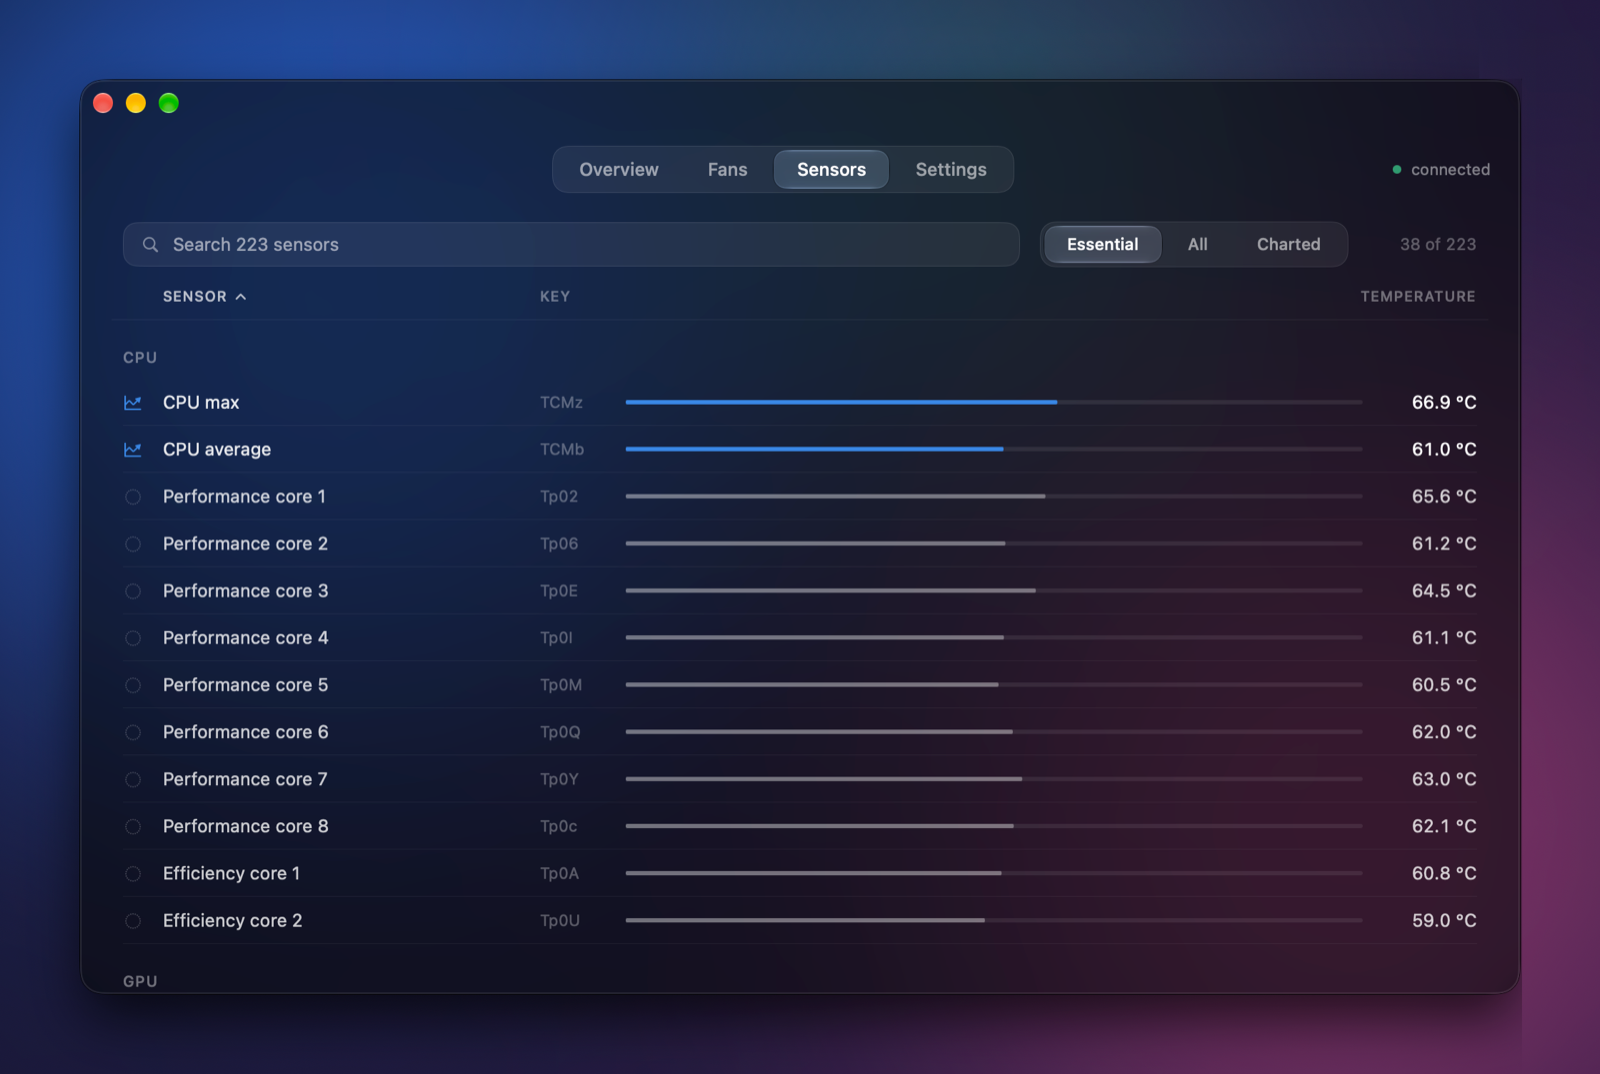
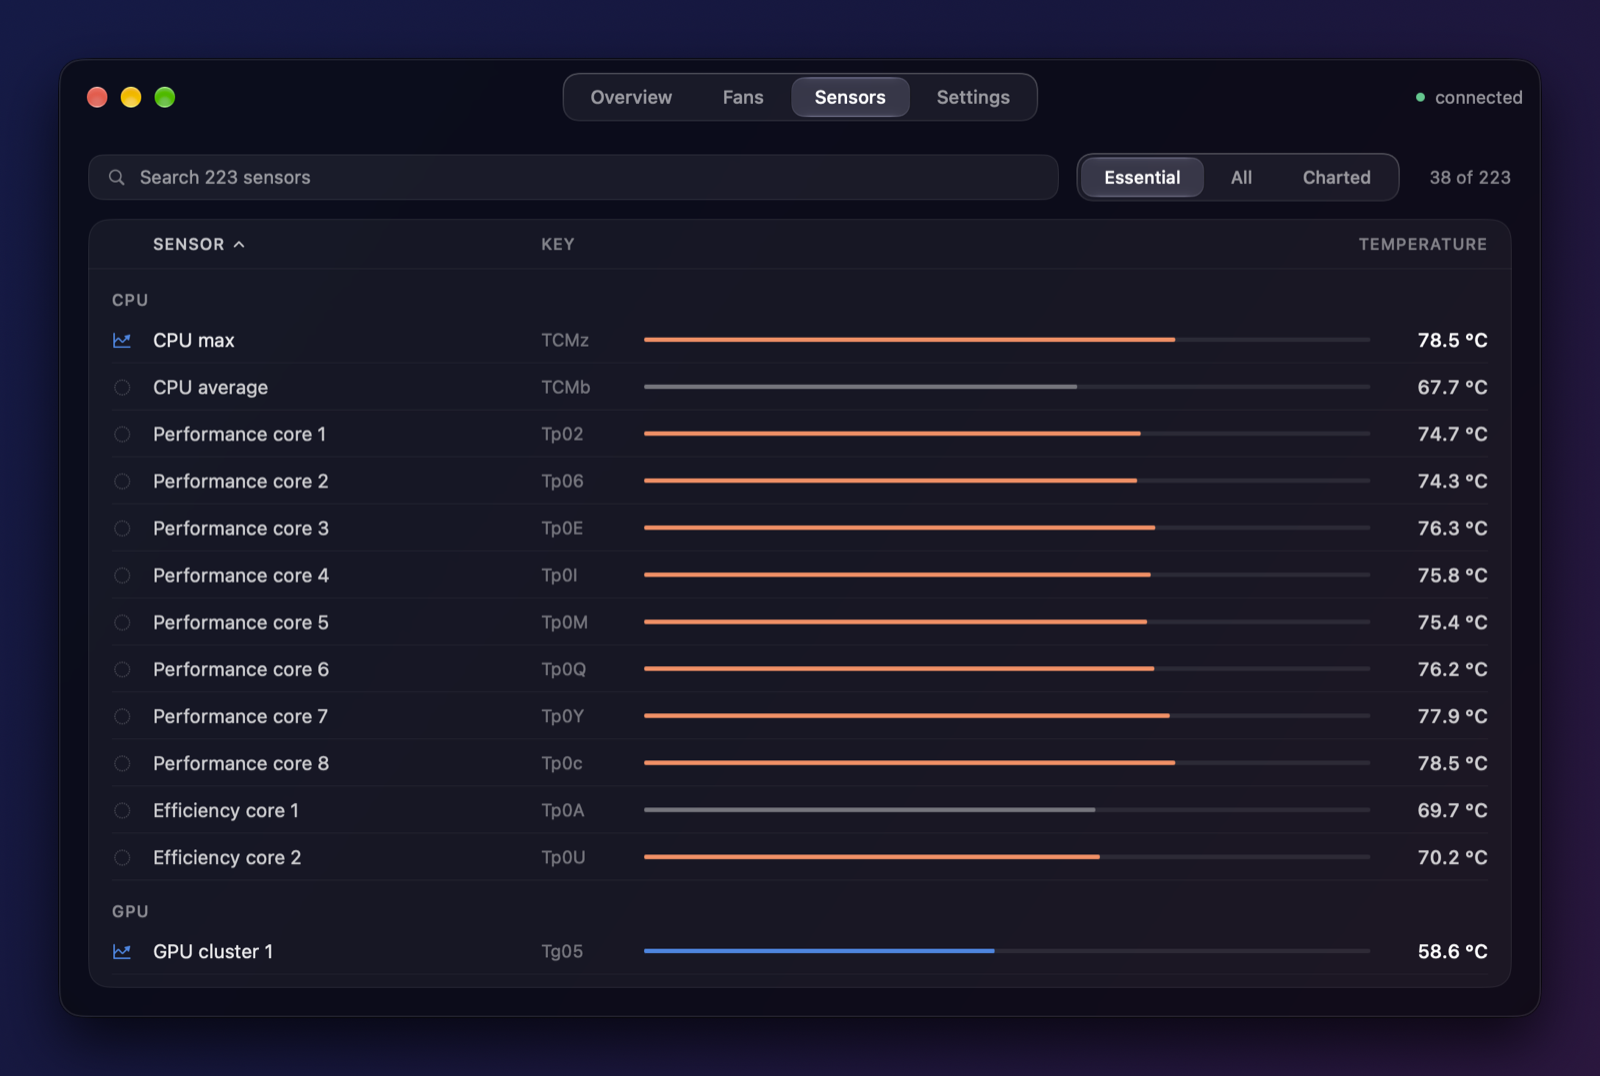
Bring the README up to the screens and the drop as they are now
New screenshots of every screen: the tabs in the window's toolbar row, the cards on
one grid, a fan's three curves drawn together, a point being set, and the drop caught
between two tabs.

Says what the app grew since: three curves per fan over their own sensors with the
fastest driving, the drop in the curve list as well as the segmented controls, and an
update that says it is updating. The glass section now describes the drop that is
there - a floor that magnifies evenly and a bead of two walls around it, measured off
Apple's own rather than taken from a breakdown of it.

diff --git a/README.md b/README.md
@@ -37,6 +37,11 @@ actual work.
   completely when told to, and run steadily well below the SMC's advertised minimum.
   How far below is learned from the fan rather than assumed — see *The speed a fan
   will not go below*.
+- **Up to three curves per fan** — each over its own sensors, and the fan runs at the
+  fastest speed any of them asks for. All three are drawn together: the one being edited
+  in front, the one actually driving the fan picked out in its own colour, the rest
+  dashed, each numbered at its end and each showing where its own sensors stand at the
+  moment. Which one is driving is said in as many words, on the fan and on the overview.
 - **Driven by the sensors you pick** — a curve follows the hottest of any set of
   sensors, with hysteresis and smoothing so the fans do not hunt.
 - **Every sensor, named** — all ~220 temperature keys, grouped (CPU cores, GPU
@@ -49,8 +54,10 @@ actual work.
   palette has that stay apart for everyone; ticking a seventh is refused where you tick
   it rather than accepted and then not drawn.
 - **Menu bar** — both fans, the mode switch and the headline temperatures one click away.
-- **Liquid Glass throughout** — adjustable frost and tone for the window, and a
-  segmented control whose selection you can pick up like a drop of glass (below).
+- **Liquid Glass throughout** — the screens are one grid of cards, the tabs sit in the
+  window's own toolbar row, frost and tone are yours to set, and the selection is a drop
+  of glass you can pick up — in the segmented controls and in the curve list, off one
+  shader and one set of springs (below).
 - **Safe by construction** — the app holds no privileges; if it *crashes* the fans stay
   managed, and if the daemon stops they go back to the system. Quitting GlassFan on
   purpose hands the fans back to the system and leaves your settings alone — they apply
@@ -60,20 +67,20 @@ actual work.
 
 <table>
   <tr>
-    <td><img src="docs/screenshots/fans.png" alt="Fans screen with a curve editor"></td>
+    <td><img src="docs/screenshots/fans.png" alt="Fans screen: three curves and the sensors behind each"></td>
     <td><img src="docs/screenshots/sensors.png" alt="Sensors screen"></td>
   </tr>
   <tr>
-    <td align="center"><sub>Fans — modes, curve, the sensors that drive it</sub></td>
+    <td align="center"><sub>Fans — modes, three curves, the sensors behind each</sub></td>
     <td align="center"><sub>Sensors — named, grouped, sortable</sub></td>
   </tr>
   <tr>
     <td><img src="docs/screenshots/settings.png" alt="Settings screen"></td>
-    <td><img src="docs/screenshots/curve.png" alt="Dragging a curve point shows its temperature and speed"></td>
+    <td><img src="docs/screenshots/curve.png" alt="Setting a curve point, with the fan's other curves behind it"></td>
   </tr>
   <tr>
     <td align="center"><sub>Settings — safety, glass, the daemon</sub></td>
-    <td align="center"><sub>Setting a curve point</sub></td>
+    <td align="center"><sub>Setting a point, the other curves behind it</sub></td>
   </tr>
 </table>
 
@@ -176,7 +183,8 @@ or run `xattr -dr com.apple.quarantine /Applications/GlassFan.app` in Terminal.
 The app only shows temperatures until its helper is installed: open
 **Settings → Fan control → Install**. macOS asks for your password once, and the
 daemon starts with the system from then on. When a newer release carries a newer
-daemon, the same place offers **Update**.
+daemon, the same place offers **Update**, and says it is updating for the few seconds the
+old one is being replaced rather than reporting the helper missing.
 
 If another fan utility such as Macs Fan Control is running its privileged helper,
 quit it first — both would write the same SMC keys.
@@ -240,20 +248,35 @@ and the "Open Anyway" step disappears for everyone. It needs these repository se
 ## The glass drop
 
 <p align="center">
-  <img src="docs/lens.png" width="760" alt="The segmented control's selection lifted into a glass lens">
+  <img src="docs/lens.png" width="760" alt="The tab strip's selection lifted into a drop of glass, caught between two tabs">
 </p>
 
-macOS 26 gives the liquid lens — the drop you can push around a segmented control
-on iOS — only to its own sliders and switches. GlassFan's segmented controls build
-one: press anywhere and the selection lifts into a drop that follows the pointer,
-stretches with speed and settles onto the segment you let go over.
+macOS 26 gives the liquid lens — the drop you can push around a segmented control on
+iOS — only to its own sliders and switches. GlassFan's segmented controls and its curve
+list build one: press anywhere and the selection lifts into a drop that follows the
+pointer, draws out with speed and settles onto whatever you let go over.
 
-It is modelled on the published breakdowns of Liquid Glass: a Metal shader refracts
-what is under the drop through a bevelled rim by Snell's law, splits colour where the
-rim bends hardest, frosts and mirrors at grazing angles, and lights the curve from a
-fixed light that swings as the drop moves. Its position, width, lift and stretch are
-four hand-stepped springs, so a click glides in one motion and a stalled frame pauses
-the drop instead of making it jump. At rest none of it exists.
+Its shape was measured rather than guessed. Take a lossless screenshot of Activity
+Monitor with the drop held over its control, take another without it, and the two say
+what the glass does to what is under it, pixel column by pixel column: the body is
+magnified evenly — 1.10× about the centre — and the whole of the distortion sits in a
+narrow rim. That is why the track stays visible straight through the drop and its labels
+only grow rather than slide.
+
+So the Metal shader is shaped like an ashtray rather than a lens: a flat floor that
+magnifies, and a bead around it whose two walls push the image out and then draw it
+back. That is what puts the edge of the surface underneath on screen twice, and hooks
+lines crossing the drop *outwards* at its ends, both of which Apple's drop does and a
+single bevel does not. No glow, no shadow, no bloom under the pointer — refraction, a
+thread of colour where the bend is hardest, and a dark hairline at the very edge.
+
+Every number of that rim lives in one place, `LensTuning`, and `Scripts/glass-lab.sh`
+puts the drop on a test ground with a slider for each of them, so a change can be looked
+at — and lined up against Apple's own — without touching the app.
+
+Its position, width, lift and stretch are four hand-stepped springs, so a click glides in
+one motion and a stalled frame pauses the drop instead of making it jump. At rest none of
+it exists.
 
 ## How it is put together
 
@@ -390,12 +413,20 @@ sudo ./.build/debug/fanctld --selftest               # does a forced target move
 setpoint: lowering one asks for more cooling, raising one asks the Mac to run hotter
 than Apple decided it should.
 
+The interface has one of its own, which runs the built app on the fixture readings and
+needs no hardware at all:
+
+```sh
+./Scripts/glass-lab.sh -z 280,190,300,70 lens.png   # the drop over a test ground, any rim setting
+```
+
 Open `Package.swift` in Xcode and pick the **GlassFanUI** scheme to see every screen in
-previews, fed from a fixture.
+previews, fed from the same fixture.
 
 ## Credits
 
-- Liquid Glass breakdowns this is modelled on: [Charles Grassi](https://charlesgrassi.dev/blog/apple-liquid-glass/),
+- Liquid Glass breakdowns this started from, before the drop was measured off
+  Apple's own: [Charles Grassi](https://charlesgrassi.dev/blog/apple-liquid-glass/),
   [kube.io](https://kube.io/blog/liquid-glass-css-svg/),
   [Ken Sorrell](https://www.sorrell.info/blog/liquid-glass-lens-effect),
   [Imad Rahmoune](https://imadrahmoune.com/liquid-glass/), and
@@ -437,6 +468,10 @@ silicon, сделанный под macOS 26 и Liquid Glass.
   (macOS спросит пароль один раз).
 - **Режимы:** Системный, Фиксированный, Кривая. Кривая может опускаться до 0 —
   вентилятор остановится.
+- **До трёх кривых на вентилятор**, у каждой свой набор датчиков; вентилятор крутится на
+  максимуме из того, что они просят, и приложение показывает, какая сейчас ведёт. Все
+  три нарисованы на одном графике: редактируемая впереди, ведущая своим цветом,
+  остальные пунктиром.
 - **На M3 и новее** забрать вентилятор у системы получается не мгновенно: сначала надо,
   чтобы отошёл штатный термоменеджер, это 5–13 секунд. Всё это время приложение честно
   показывает, что управления ещё нет, а не делает вид, что командует.
